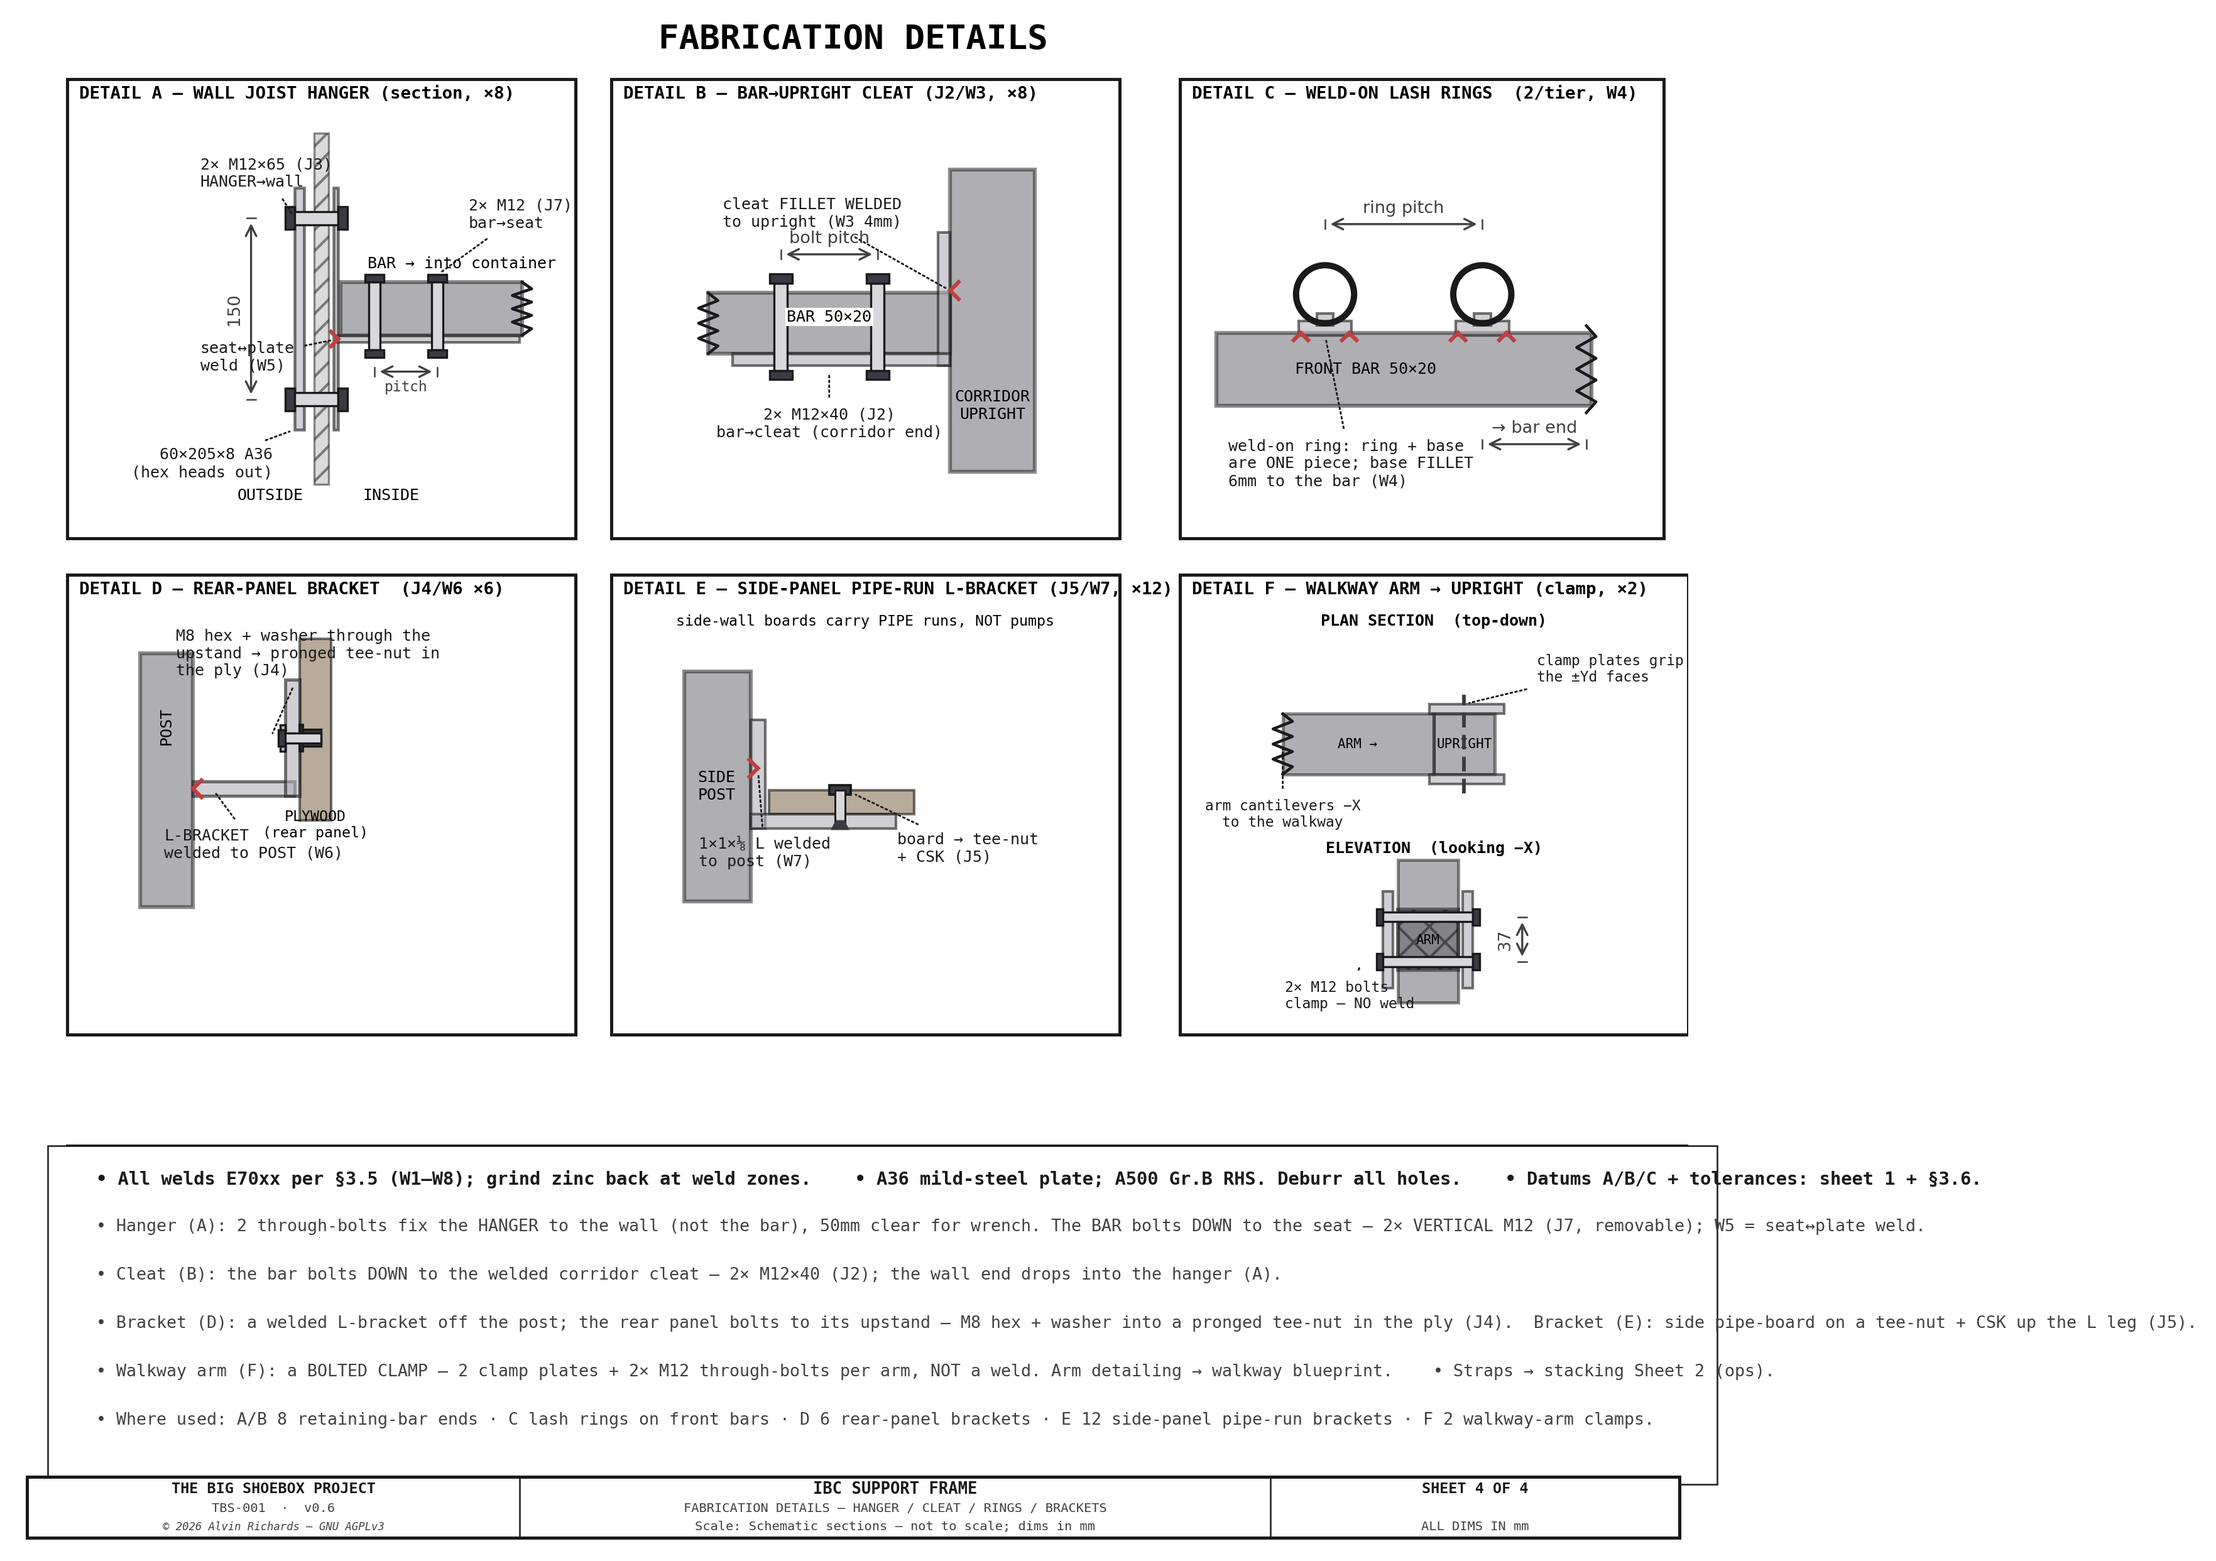
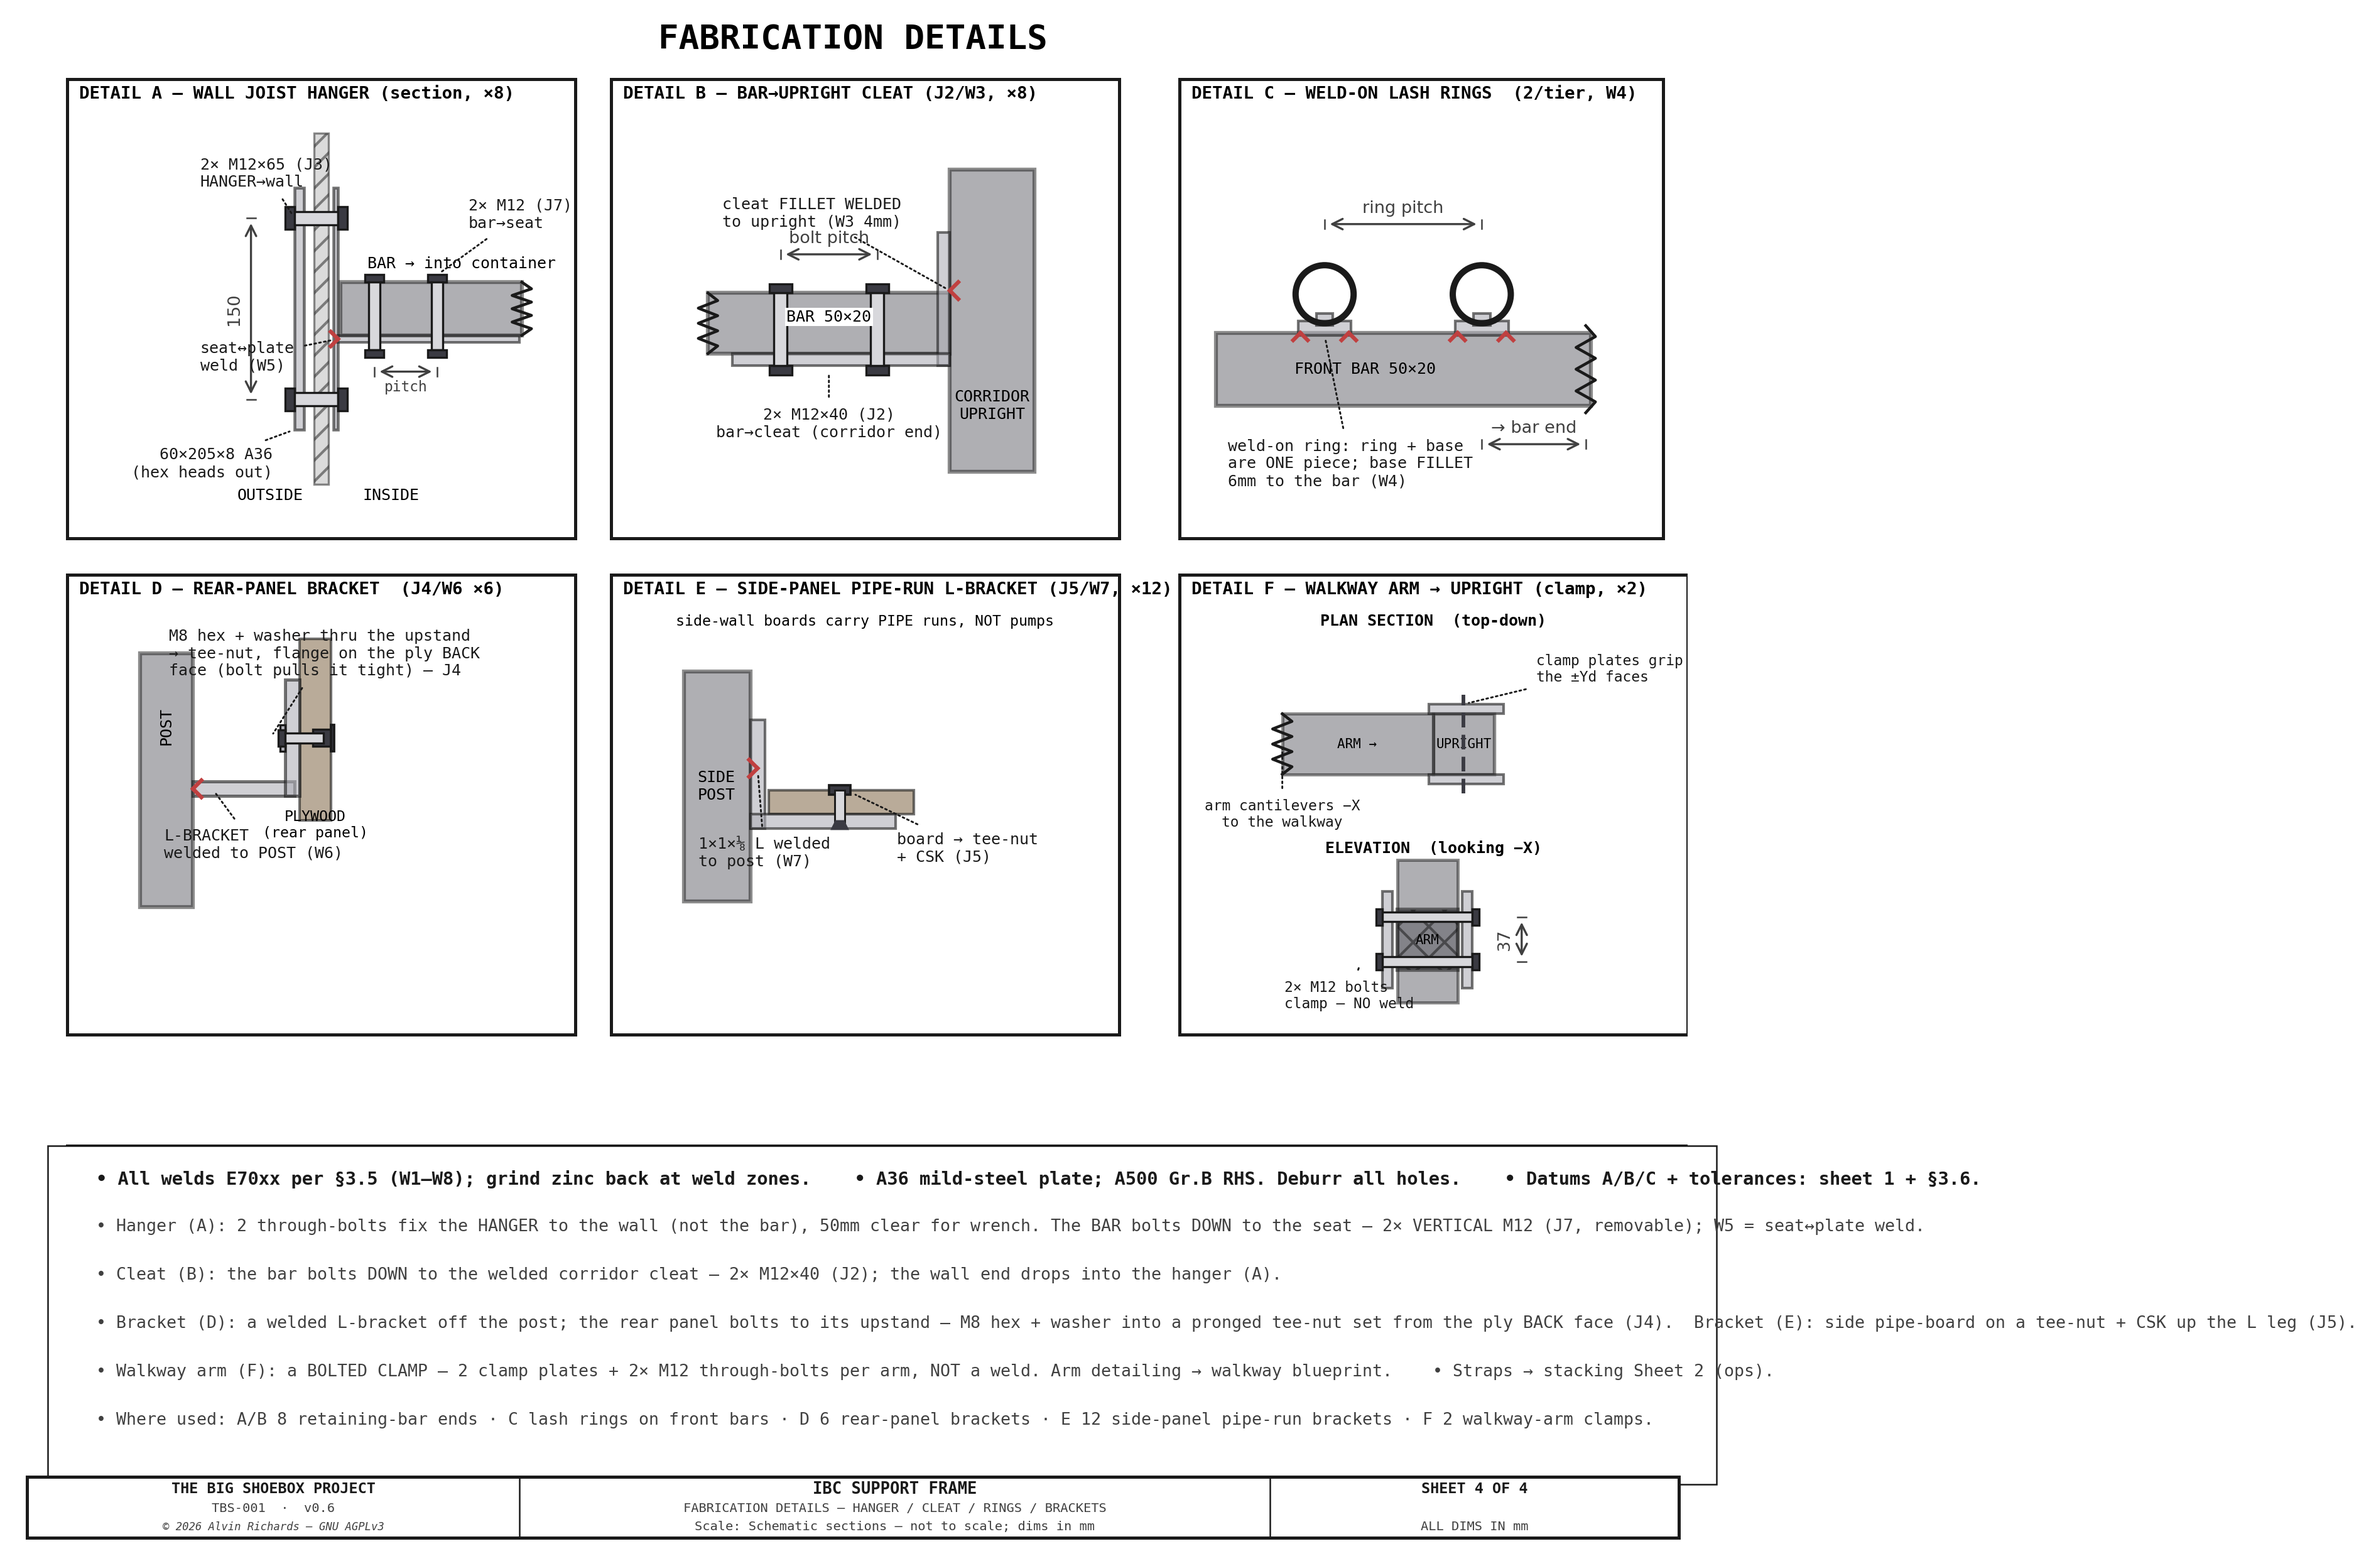
ibc-frame-sheet4: Detail B bolts flush + Detail D tee-nut on the correct (back) face
Detail B: the 2 cleat bolts spanned uz+84..156 while the bar+cleat stack is only
uz+88..148, so the shank poked past both faces — now span exactly the stack so the
head/nut seat flush on the bar top + cleat underside. Detail D: the pronged tee-nut
was on the upstand-side face; moved it to the ply BACK face (barrel toward the bolt)
so bolt tension pulls the flange against the wood — the correct tension orientation.
Report §3.5 J4 + notes band updated.

diff --git a/src/generators/generate_ibc_frame_drawing.py b/src/generators/generate_ibc_frame_drawing.py
@@ -1129,8 +1129,8 @@ def sheet4():
     _break(ax, ux - 200, uz + 98, uz + 148)                                                         # bar continues to the wall hanger (jagged, LEFT end)
     ax.text(ux - 100, uz + 128, "BAR 50×20", fontsize=6, ha="center", va="center", zorder=12,
             bbox=dict(boxstyle="square,pad=0.1", fc="white", ec="none"), **FONT)
-    for bx in (ux - 60, ux - 140):                                                                  # 2 DISTINCT vertical bolts thru bar + cleat leg
-        _bolt(ax, bx, uz + 84, 72, d=11, vert=True, nut=True)
+    for bx in (ux - 60, ux - 140):                                                                  # 2 vertical bolts thru bar + cleat leg — span EXACTLY the stack so head/nut sit flush
+        _bolt(ax, bx, uz + 88, 60, d=11, vert=True, nut=True)                                        # head flush on the cleat-leg underside, nut flush on the bar top (uz+88..uz+148)
     draw_dim_h(ax, ux - 140, ux - 60, uz + 180, "bolt pitch")
     leader(ax, ux, uz + 150, ux - 40, uz + 214, "cleat FILLET WELDED\nto upright (W3 4mm)", fs=6, font=FONT, ha="right")
     leader(ax, ux - 100, uz + 84, ux - 100, uz + 40, "2× M12×40 (J2)\nbar→cleat (corridor end)", fs=6, font=FONT, ha="center")
@@ -1164,16 +1164,16 @@ def sheet4():
     _weld_tick(ax, px + 44, lz + 6, side='right', size=7)                                            # L-bracket ↔ post (W6)
     # rear-panel PLYWOOD behind the upstand (right face)
     ax.add_patch(Rectangle((px + 132, lz - 20), 26, 150, fc=C_PALLET, ec=C_OUT, lw=1, alpha=0.6, zorder=5))   # rear panel
-    # pronged tee-nut set into the ply (flange on the upstand-side face + barrel into the ply)
+    # pronged tee-nut set into the ply from the BACK face (flange on the far face; barrel points toward the bolt)
     bz = lz + 48
-    ax.add_patch(Rectangle((px + 132, bz - 11), 3, 22, fc=C_BOLT, ec=C_OUT, lw=0.9, zorder=9))       # tee-nut FLANGE (ply face, against the upstand)
-    ax.add_patch(Rectangle((px + 135, bz - 7), 15, 14, fc=C_BOLT, ec=C_OUT, lw=0.8, zorder=8))       # tee-nut threaded BARREL into the ply
-    # M8 hex bolt + washer: head on the corridor side, through the upstand, into the tee-nut
+    ax.add_patch(Rectangle((px + 158, bz - 11), 3, 22, fc=C_BOLT, ec=C_OUT, lw=0.9, zorder=9))       # tee-nut FLANGE on the ply BACK face — bolt tension pulls it against the wood (can't pull through)
+    ax.add_patch(Rectangle((px + 143, bz - 7), 15, 14, fc=C_BOLT, ec=C_OUT, lw=0.8, zorder=8))       # tee-nut threaded BARREL — from the back flange INTO the ply toward the bolt
+    # M8 hex bolt + washer: head on the corridor side, through the upstand + ply, threading into the tee-nut
     ax.add_patch(Rectangle((px + 116, bz - 11), 4, 22, fc=C_STEEL, ec=C_OUT, lw=0.8, zorder=9))      # washer under the head
-    _bolt(ax, px + 120, bz, 30, d=8, nut=False)                                                      # head (corridor side) + shank through upstand → tee-nut
+    _bolt(ax, px + 120, bz, 32, d=8, nut=False)                                                      # head (corridor side) + shank through upstand & ply → threads into the tee-nut barrel
     ax.text(px + 145, lz - 34, "PLYWOOD\n(rear panel)", fontsize=5.6, ha="center", **FONT, zorder=9)
     leader(ax, px + 60, lz + 6, px + 20, lz - 40, "L-BRACKET\nwelded to POST (W6)", fs=6, font=FONT, ha="left")
-    leader(ax, px + 108, bz, px + 30, bz + 70, "M8 hex + washer through the\nupstand → pronged tee-nut in\nthe ply (J4)", fs=6, font=FONT, ha="left")
+    leader(ax, px + 108, bz, px + 24, bz + 70, "M8 hex + washer thru the upstand\n→ tee-nut, flange on the ply BACK\nface (bolt pulls it tight) — J4", fs=6, font=FONT, ha="left")
 
     # ── DETAIL E — SIDE-PANEL PIPE-RUN SUPPORT L-BRACKET (carries the pipe runs, NOT pumps) ──
     ex0, ey0 = 470, 60
@@ -1231,7 +1231,7 @@ def sheet4():
         "• All welds E70xx per §3.5 (W1–W8); grind zinc back at weld zones.    • A36 mild-steel plate; A500 Gr.B RHS. Deburr all holes.    • Datums A/B/C + tolerances: sheet 1 + §3.6.",
         "• Hanger (A): 2 through-bolts fix the HANGER to the wall (not the bar), 50mm clear for wrench. The BAR bolts DOWN to the seat — 2× VERTICAL M12 (J7, removable); W5 = seat↔plate weld.",
         "• Cleat (B): the bar bolts DOWN to the welded corridor cleat — 2× M12×40 (J2); the wall end drops into the hanger (A).",
-        "• Bracket (D): a welded L-bracket off the post; the rear panel bolts to its upstand — M8 hex + washer into a pronged tee-nut in the ply (J4).  Bracket (E): side pipe-board on a tee-nut + CSK up the L leg (J5).",
+        "• Bracket (D): a welded L-bracket off the post; the rear panel bolts to its upstand — M8 hex + washer into a pronged tee-nut set from the ply BACK face (J4).  Bracket (E): side pipe-board on a tee-nut + CSK up the L leg (J5).",
         "• Walkway arm (F): a BOLTED CLAMP — 2 clamp plates + 2× M12 through-bolts per arm, NOT a weld. Arm detailing → walkway blueprint.    • Straps → stacking Sheet 2 (ops).",
         "• Where used: A/B 8 retaining-bar ends · C lash rings on front bars · D 6 rear-panel brackets · E 12 side-panel pipe-run brackets · F 2 walkway-arm clamps.",
     ], 44, -52, spacing=40, fs=6.4, font=FONT, width=1300)

diff --git a/ibc-stacking-report.md b/ibc-stacking-report.md
@@ -177,7 +177,7 @@ are the standard values for the grade.
 | J1 | Floor foot-plate → floor + crossmember | #14×3¼″ winged self-driller (F14C325FDC) | 410 SS | 16 | driven to seat / flush — no torque spec (self-drilling; not a structural bolt) | — | thread-forming, self-locking |
 | J2 | Front-bar end → upright angle cleat | M12×40 hex (92314A744) | A2-70 (18-8 SS) | 16 | **~50 N·m** with anti-seize (stainless galls → torqued lower than 8.8; no impact driver) | flat | nyloc nut |
 | J3 | Wall hanger → side wall → exterior backing plate | M12×65 through-bolt (91280A728) | Gr.8.8 zinc | 16 | **~90 N·m** (85–95 band) | flat (head, outside) + flat + split-lock (nut, inside) | plain nut + split-lock washer |
-| J4 | Rear panel → welded L-bracket upstand (off the back upright) | M8 hex into captive 5/16 tee-nut in the ply | zinc | 6 brackets | snug + locker (light static load) | flat washer under head | thread-locker |
+| J4 | Rear panel → welded L-bracket upstand (off the back upright) | M8 hex into captive 5/16 tee-nut set from the ply BACK face (tension pulls the flange against the wood) | zinc | 6 brackets | snug + locker (light static load) | flat washer under head | thread-locker |
 | J5 | Side-panel pipe-run boards → welded L-brackets | ¼-20 CSK machine screw into captive pronged tee-nut (rear-panel method, #30) | zinc | 12 brackets | snug | — | pronged tee-nut (self-locking in ply) |
 | J6 | Walkway cantilever arm → front upright (2 clamp plates wrap the upright) | M12×40 hex through-bolt | Gr.8.8 zinc | 2 arms × 2 bolts = 4 | **~90 N·m** (85–95 band) | flat both ends | nyloc nut |
 | J7 | Front-bar wall end → hanger pocket seat (vertical retention — the bar is bolted, not welded, to the hanger; 2 bolts for anti-rotation + redundancy, matching the corridor cleat) | M12×40 hex (92314A744) | A2-70 (18-8 SS) | 2 per bar × 8 = 16 | **~50 N·m** with anti-seize | flat | nyloc nut |
